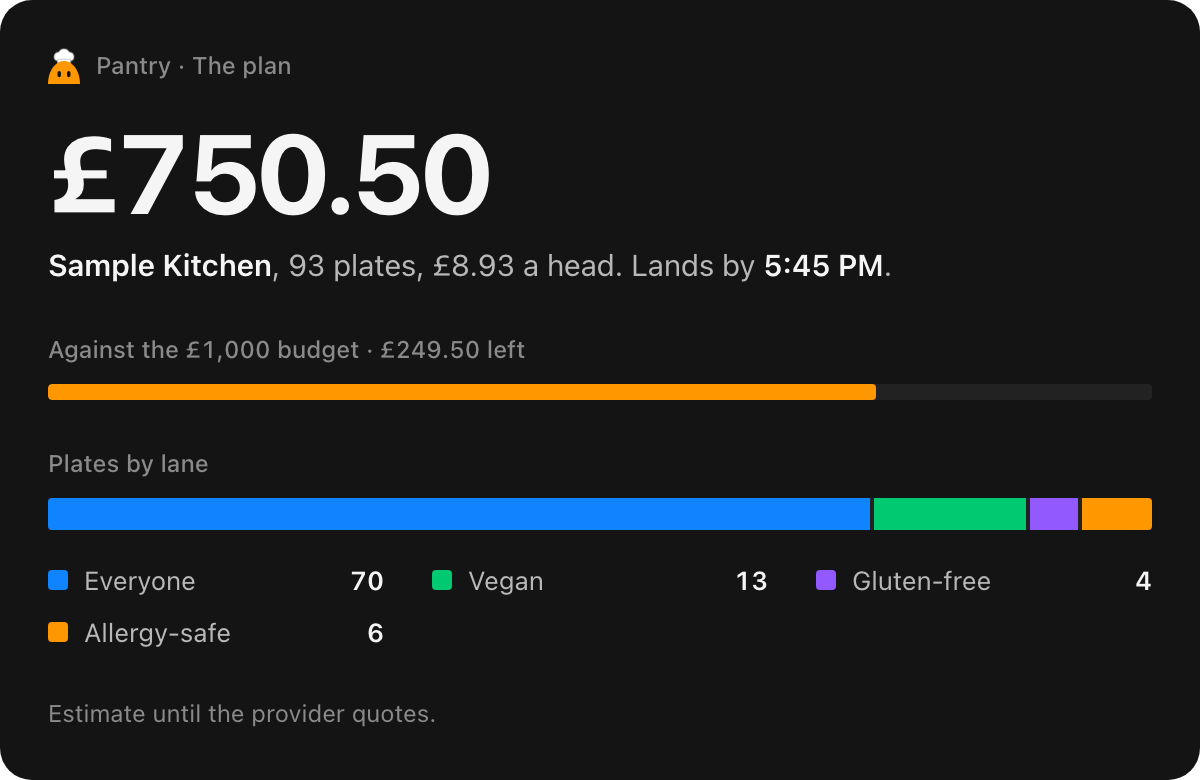
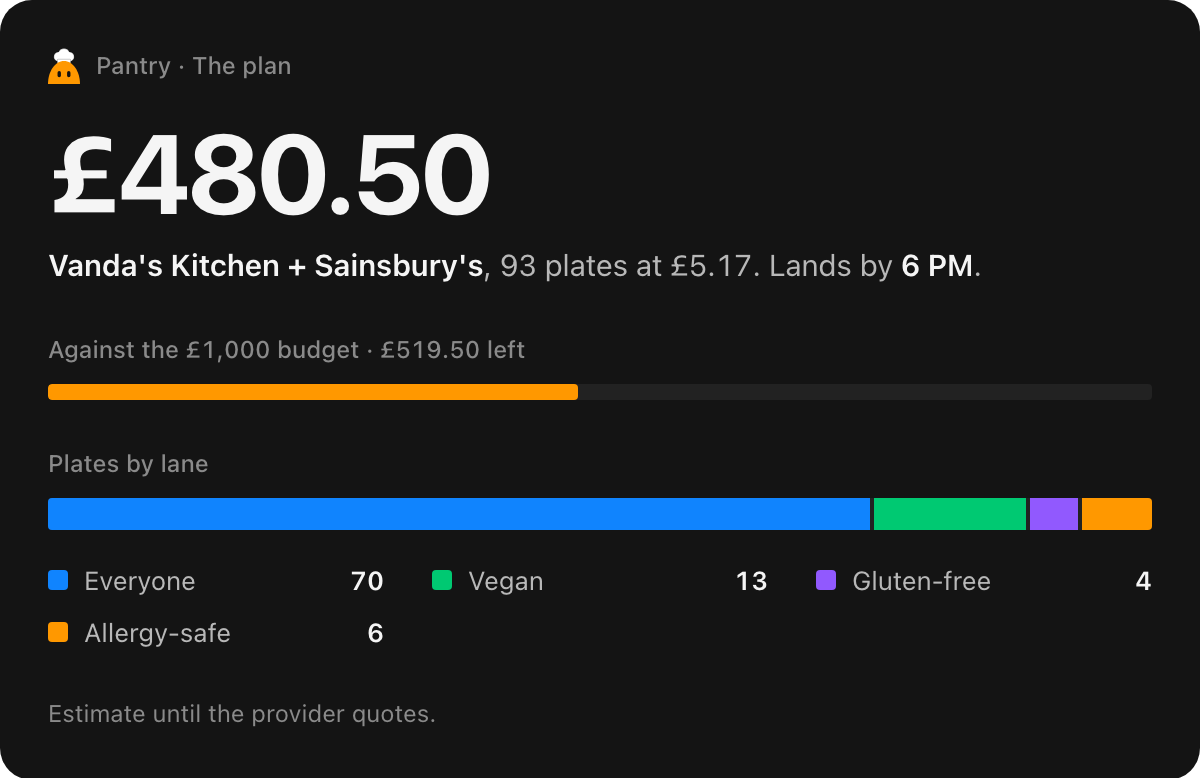
Stage: panels that work full screen, deposit prompt, prompts sent through accessibility
- Connections, How it works and Agentcard get a two-column layout on a 16:9 screen; the half-width
  layout is unchanged. Four current cards in How it works.
- Prompt 4 is the £70 deposit. prompt.sh fills and sends Pantry's message box through bin/grok
  (accessibility): no keystrokes or clicks, and it refuses unless Pantry's chat is open.
- stage.js sizes Grok Bot to whichever screen it's on. ?date= pins the closing credit.

diff --git a/story/streamdeck/src/grok.swift b/story/streamdeck/src/grok.swift
@@ -1,0 +1,125 @@
+// grok: drive Grok Bot through the macOS accessibility API. No keystrokes, no mouse moves, and Grok Bot
+// doesn't have to be in front, so nothing can land in another app by mistake.
+//   grok prompt "<text>"    put the text in Pantry's message box (doesn't send)
+//   grok send               press Send message
+//   grok pantry             open Pantry's chat
+//   grok image [n]          open the nth-from-last card in the chat full screen (1 = the latest)
+//   grok close              close the full-screen image (or any open dialog)
+//   grok compact on|off     the compact sidebar (on hides the other Bots' names)
+//   grok fill [left|right]  fit the window to the screen it's on, below the menu bar (or its left/right half)
+//   grok at x y w h         move and size the window (points, top-left origin)
+//   grok state              JSON: frontmost app, chat, composer text, send button, window frame
+// Needs Accessibility for the terminal (or app) that runs it.
+import AppKit
+import ApplicationServices
+
+func attr(_ e: AXUIElement, _ n: String) -> AnyObject? { var v: AnyObject?; return AXUIElementCopyAttributeValue(e, n as CFString, &v) == .success ? v : nil }
+func str(_ e: AXUIElement, _ n: String) -> String { (attr(e, n) as? String) ?? "" }
+func frame(_ e: AXUIElement) -> CGRect {
+  var p = CGPoint.zero, s = CGSize.zero
+  if let v = attr(e, kAXPositionAttribute) { AXValueGetValue(v as! AXValue, .cgPoint, &p) }
+  if let v = attr(e, kAXSizeAttribute) { AXValueGetValue(v as! AXValue, .cgSize, &s) }
+  return CGRect(origin: p, size: s)
+}
+func label(_ e: AXUIElement) -> String { let d = str(e, kAXDescriptionAttribute); return d.isEmpty ? str(e, kAXTitleAttribute) : d }
+func die(_ m: String) -> Never { FileHandle.standardError.write((m + "\n").data(using: .utf8)!); exit(1) }
+
+guard let app = NSRunningApplication.runningApplications(withBundleIdentifier: "com.anysphere.sand").first else { die("Grok Bot isn't running.") }
+let ax = AXUIElementCreateApplication(app.processIdentifier)
+AXUIElementSetAttributeValue(ax, "AXManualAccessibility" as CFString, kCFBooleanTrue)
+
+func elements() -> [AXUIElement] {
+  var out: [AXUIElement] = []
+  func walk(_ e: AXUIElement, _ d: Int) {
+    if d > 64 || out.count > 30000 { return }
+    out.append(e)
+    if let kids = attr(e, kAXChildrenAttribute) as? [AXUIElement] { for k in kids { walk(k, d + 1) } }
+  }
+  for w in (attr(ax, kAXWindowsAttribute) as? [AXUIElement]) ?? [] { walk(w, 0) }
+  return out
+}
+func find(_ role: String, _ name: String) -> [AXUIElement] { elements().filter { str($0, kAXRoleAttribute) == role && label($0) == name } }
+func press(_ e: AXUIElement) -> Bool { AXUIElementPerformAction(e, kAXPressAction as CFString) == .success }
+func mainWindow() -> AXUIElement? {
+  ((attr(ax, kAXWindowsAttribute) as? [AXUIElement]) ?? []).first { str($0, kAXSubroleAttribute) == "AXStandardWindow" }
+}
+func composer() -> AXUIElement? { elements().first { str($0, kAXRoleAttribute) == "AXTextArea" && label($0) == "Prompt" } }
+// The chat header names the Bot whose conversation is open.
+func chatName() -> String {
+  guard let header = find("AXButton", "View conversation details").first else { return "" }
+  var name = ""
+  func walk(_ e: AXUIElement) { if name.isEmpty, str(e, kAXRoleAttribute) == "AXStaticText" { name = str(e, kAXValueAttribute) }; for k in (attr(e, kAXChildrenAttribute) as? [AXUIElement]) ?? [] { walk(k) } }
+  walk(header)
+  return name
+}
+func setFrame(_ r: CGRect) {
+  guard let w = mainWindow() else { die("No Grok Bot window.") }
+  var p = r.origin, s = r.size
+  AXUIElementSetAttributeValue(w, kAXPositionAttribute as CFString, AXValueCreate(.cgPoint, &p)!)
+  AXUIElementSetAttributeValue(w, kAXSizeAttribute as CFString, AXValueCreate(.cgSize, &s)!)
+}
+// The visible frame (below the menu bar) of the screen the window is on, in top-left coordinates.
+func screenFrame() -> CGRect {
+  let primary = NSScreen.screens[0].frame
+  let wf = mainWindow().map(frame) ?? .zero
+  let screen = NSScreen.screens.first { s in let f = s.frame; let top = CGRect(x: f.minX, y: primary.maxY - f.maxY, width: f.width, height: f.height); return top.contains(CGPoint(x: wf.midX, y: wf.midY)) } ?? NSScreen.main ?? NSScreen.screens[0]
+  let v = screen.visibleFrame
+  return CGRect(x: v.minX, y: primary.maxY - v.maxY, width: v.width, height: v.height)
+}
+func waitFor(_ ok: () -> Bool, _ seconds: Double = 4) -> Bool {
+  let end = Date().addingTimeInterval(seconds)
+  while Date() < end { if ok() { return true }; usleep(120_000) }
+  return ok()
+}
+
+let a = CommandLine.arguments
+switch a.count > 1 ? a[1] : "" {
+case "pantry":
+  if chatName() == "Pantry" { print("Pantry's chat is open"); break }
+  guard let item = find("AXButton", "Pantry").first, press(item) else { die("Couldn't find Pantry in the sidebar.") }
+  print(waitFor({ chatName() == "Pantry" }) ? "Pantry's chat is open" : "opened, but the header says \(chatName())")
+case "prompt":
+  guard a.count > 2 else { die("usage: grok prompt \"<text>\"") }
+  if chatName() != "Pantry" { die("The open chat is \(chatName().isEmpty ? "unknown" : chatName()), not Pantry. Run: grok pantry") }
+  guard let field = composer() else { die("No message box.") }
+  AXUIElementSetAttributeValue(field, kAXValueAttribute as CFString, a[2] as CFString)
+  print(waitFor({ !find("AXButton", "Send message").isEmpty }, 2) ? "ready to send" : "text set (no Send button yet)")
+case "send":
+  if chatName() != "Pantry" { die("The open chat isn't Pantry's. Nothing sent.") }
+  guard let b = find("AXButton", "Send message").first else { die("Nothing to send: the message box is empty.") }
+  print(press(b) && waitFor({ find("AXButton", "Send message").isEmpty }, 3) ? "sent" : "pressed Send; check Grok Bot")
+case "image":
+  let n = a.count > 2 ? max(1, Int(a[2]) ?? 1) : 1
+  let images = find("AXButton", "Open image full screen")
+  guard images.count >= n else { die("Only \(images.count) images in view.") }
+  print(press(images[images.count - n]) ? "opened image \(n) from the end" : "couldn't open it")
+case "close":
+  let close = elements().filter { str($0, kAXRoleAttribute) == "AXButton" && ["Close", "Close image", "Close viewer", "Close full screen"].contains(label($0)) }
+  guard let c = close.last else { die("Nothing open to close.") }
+  print(press(c) ? "closed" : "couldn't close")
+case "compact":
+  let want = a.count > 2 ? a[2] == "on" : true
+  let isCompact = !elements().contains { str($0, kAXRoleAttribute) == "AXStaticText" && str($0, kAXValueAttribute) == "Voco Community" }
+  if want == isCompact { print("compact sidebar is \(want ? "on" : "off")"); break }
+  guard let t = find("AXButton", "Toggle compact sidebar").first, press(t) else { die("No sidebar toggle.") }
+  print("compact sidebar \(want ? "on" : "off")")
+case "fill":
+  let s = screenFrame()
+  let side = a.count > 2 ? a[2] : "full"
+  let half = (s.width / 2).rounded()
+  setFrame(side == "left" ? CGRect(x: s.minX, y: s.minY, width: half, height: s.height) : side == "right" ? CGRect(x: s.minX + half, y: s.minY, width: s.width - half, height: s.height) : s)
+  print("window", mainWindow().map(frame).map { "\(Int($0.minX)),\(Int($0.minY)) \(Int($0.width))x\(Int($0.height))" } ?? "?")
+case "at":
+  guard a.count > 5, let x = Double(a[2]), let y = Double(a[3]), let w = Double(a[4]), let h = Double(a[5]) else { die("usage: grok at x y w h") }
+  setFrame(CGRect(x: x, y: y, width: w, height: h))
+  print("window", mainWindow().map(frame).map { "\(Int($0.minX)),\(Int($0.minY)) \(Int($0.width))x\(Int($0.height))" } ?? "?")
+case "state":
+  let f = mainWindow().map(frame) ?? .zero
+  let text = composer().map { str($0, kAXValueAttribute).trimmingCharacters(in: .whitespacesAndNewlines) } ?? ""
+  let obj: [String: Any] = ["front": NSWorkspace.shared.frontmostApplication?.localizedName ?? "", "chat": chatName(), "composer": text,
+    "canSend": !find("AXButton", "Send message").isEmpty, "images": find("AXButton", "Open image full screen").count,
+    "window": [Int(f.minX), Int(f.minY), Int(f.width), Int(f.height)]]
+  print(String(data: try! JSONSerialization.data(withJSONObject: obj, options: [.sortedKeys]), encoding: .utf8)!)
+default:
+  print("usage: grok pantry | prompt \"<text>\" | send | image [n] | close | compact on|off | fill [left|right] | at x y w h | state")
+}

diff --git a/story/index.html b/story/index.html
@@ -254,6 +254,7 @@ body.panel-on { cursor: default; }
 #p-tools .cards { position: absolute; left: 7%; right: 7%; top: 53%; }
 #p-tools .cards .row { display: grid; grid-template-columns: 1fr 1fr 1fr; gap: 3%; align-items: start; margin-top: .7em; }
 #p-tools .cards img { width: 100%; border-radius: 10px; box-shadow: 0 0 0 1px rgba(255,255,255,.12), 0 18px 40px -10px rgba(0,0,0,.8); }
+#p-tools .cards .row img:nth-child(n+4) { display: none; }
 #p-tools .cards .cap { font-size: 1.15em; color: var(--ink-2); }
 #p-tools .cards .cap b { color: var(--ink); font-weight: 560; }
 #p-tools .rules { position: absolute; left: 7%; right: 7%; bottom: 8%; display: grid; grid-template-columns: 1fr 1fr; gap: .7em 1.4em; }
@@ -273,6 +274,32 @@ body.panel-on { cursor: default; }
 #p-agentcard .never .big { font-size: 2em; line-height: 1.15; font-weight: 600; letter-spacing: -.025em; }
 #p-agentcard .never .sm { margin-top: .6em; font-size: 1.2em; color: var(--ink-2); line-height: 1.35; }
 #p-agentcard .tag { position: absolute; right: 7%; top: 6%; font-family: var(--mono); font-size: 1em; color: #000; background: var(--yellow); padding: .35em .7em; border-radius: 6px; }
+
+/* The same panels full screen (a 16:9 projector): two columns, the words left, the picture right. */
+@media (min-aspect-ratio: 5/4) {
+  .panel { font-size: min(1.75vh, 1.1vw); }
+  .panel .pglow { background: radial-gradient(60% 50% at 70% 110%, rgba(255,152,0,.20), rgba(0,0,0,0) 70%); }
+  .panel .phead { left: 6%; right: auto; width: 34%; top: 50%; transform: translateY(-50%); }
+  .panel .phead.rise { animation-name: riseMid; }
+  @keyframes riseMid { from { opacity: 0; transform: translateY(calc(-50% + 16px)); filter: blur(6px); } to { opacity: 1; transform: translateY(-50%); filter: none; } }
+  .panel .phead h1 { font-size: 4.4em; }
+  #p-connect .sky { left: 38%; right: 3%; top: 4%; bottom: 4%; }
+  #p-connect .hub { width: 17%; }
+  #p-connect .node { width: 24%; }
+  #p-tools .phead { top: 9%; transform: none; }
+  #p-tools .phead.rise { animation-name: rise; }
+  #p-tools .groups { left: 6%; right: auto; width: 38%; top: 34%; }
+  #p-tools .rules { left: 6%; right: auto; width: 38%; bottom: 9%; }
+  #p-tools .cards { left: 48%; right: 5%; top: 9%; }
+  #p-tools .cards .cap { font-size: 1.3em; }
+  #p-tools .cards .row { grid-template-columns: 1fr 1fr; gap: 1.2em 1.2em; margin-top: 1em; }
+  #p-tools .cards .row img:nth-child(n+4) { display: block; }
+  #p-agentcard .phead { top: 36%; }
+  #p-agentcard .never { left: 6%; right: auto; width: 36%; bottom: auto; top: 52%; }
+  #p-agentcard .steps { left: 50%; right: 6%; top: 50%; transform: translateY(-50%); }
+  #p-agentcard .step { padding-bottom: 2.1em; }
+  #p-agentcard .step::before { top: 3.4em; }
+}
 @media (prefers-reduced-motion: reduce) { *, *::before, *::after { animation-duration: .01ms !important; animation-iteration-count: 1 !important; transition-duration: .01ms !important; } }
 </style>
 </head>
@@ -482,17 +509,17 @@ Demo budget: 1:45. Come back with &quot;3&quot; for the close.">
     <div class="grp rise" style="animation-delay:.56s"><div class="label">04</div><div class="t">Remember</div><div class="chips"><i>cognee recall</i><i>cognee remember</i><i>debrief</i></div></div>
   </div>
   <div class="cards rise" style="animation-delay:.75s"><div class="cap"><b>Cards, not walls of text.</b> One idea per card, the number first, sent as an image.</div>
-    <div class="row"><img src="assets/cards/plan.png" alt="Plan card"><img src="assets/cards/provider-1.png" alt="Provider card"><img src="assets/cards/payment-paid.png" alt="Payment card"></div></div>
+    <div class="row"><img src="assets/cards/plan.png" alt="Plan card: the total, the budget and plates by lane"><img src="assets/cards/meal.png" alt="Meal card: who a meal feeds"><img src="assets/cards/payment.png" alt="Payment card: a deposit paid on a single-use card"><img src="assets/cards/headcount.png" alt="Headcount card: plan for 93, not 140"></div></div>
   <div class="rules rise" style="animation-delay:1s"><div>Allergies planned at 100%</div><div>Nothing invented</div><div>Every source linked</div><div>No tool can pay</div></div>
 </section>
 <section class="panel" id="p-agentcard"><div class="pglow"></div>
-  <div class="tag rise">Sandbox tonight</div>
+  <div class="tag rise">Agentcard sandbox</div>
   <div class="phead rise"><div class="label">Agentcard</div><h1>How Pantry pays.</h1></div>
   <div class="steps">
-    <div class="step rise" style="animation-delay:.2s"><div class="num">1</div><div><b>Pantry raises the request</b><span>Bound to the plan, the amount and the provider.</span></div></div>
+    <div class="step rise" style="animation-delay:.2s"><div class="num">1</div><div><b>Pantry raises the request</b><span>Bound to the plan, the amount and the payee.</span></div></div>
     <div class="step you rise" style="animation-delay:.4s"><div class="num">2</div><div><b>You say yes</b><span>Nothing moves without a human.</span></div></div>
     <div class="step rise" style="animation-delay:.6s"><div class="num">3</div><div><b>A single-use card is issued</b><span>For exactly that amount, by Agentcard.</span></div></div>
-    <div class="step rise" style="animation-delay:.8s"><div class="num">4</div><div><b>The charge goes through</b><span>Simulated in sandbox tonight.</span></div></div>
+    <div class="step rise" style="animation-delay:.8s"><div class="num">4</div><div><b>The charge goes through</b><span>Simulated in Agentcard's sandbox.</span></div></div>
     <div class="step rise" style="animation-delay:1s"><div class="num">5</div><div><b>The card closes</b><span>It can't be used again.</span></div></div>
   </div>
   <div class="never rise" style="animation-delay:1.25s"><div class="big">Pantry never sees a card number.<br><span class="y">It can't approve.</span></div><div class="sm">1Password does the same for logins: Pantry signs in to suppliers without ever seeing the password.</div></div>
@@ -528,7 +555,8 @@ Demo budget: 1:45. Come back with &quot;3&quot; for the close.">
   } else tonight.remove();
 
   // ---- Today's date, from the browser clock (en-GB, Europe/London) ----
-  document.getElementById('today').textContent = new Date().toLocaleDateString('en-GB', { day: 'numeric', month: 'long', year: 'numeric', timeZone: 'Europe/London' });
+  const pinned = /^\d{4}-\d{2}-\d{2}$/.test(q.get('date') ?? '') ? new Date(`${q.get('date')}T12:00:00Z`) : new Date();
+  document.getElementById('today').textContent = pinned.toLocaleDateString('en-GB', { day: 'numeric', month: 'long', year: 'numeric', timeZone: 'Europe/London' });
 
   // ---- June: 96 plates in a 12 x 8 grid ----
   const plates = document.getElementById('plates');

diff --git a/story/streamdeck/stage.js b/story/streamdeck/stage.js
@@ -2,8 +2,8 @@
 // Pantry stage server: one deck window, one Grok Bot window, every Stream Deck key a silent GET.
 //   node story/streamdeck/stage.js        then the Stream Deck keys hit http://127.0.0.1:4321/key/<name>
 // The deck page is served from here and listens on /events, so a key press changes it in place: no reload,
-// no new window, no app launch. Windows move with System Events, which needs this process to be started from
-// a terminal that already has Accessibility access.
+// no new window, no app launch. Grok Bot is sized to whichever screen it's on through the accessibility API
+// (bin/grok), which needs this process to be started from a terminal that already has Accessibility access.
 import { createServer } from 'node:http';
 import { readFile } from 'node:fs/promises';
 import { execFile, spawn } from 'node:child_process';
@@ -15,8 +15,6 @@ const DIR = fileURLToPath(new URL('.', import.meta.url));
 const STORY = join(DIR, '..');
 const PANTRY_CHAT = 'grokbot://app/v1/agent?id=5ab715a0-38f1-42bb-b342-f792ecd90270';
 const PROFILE = `${process.env.HOME}/Library/Application Support/PantryStageChrome`;
-const SCREEN = { w: 1710, h: 1112, top: 25 };
-const HALF = Math.round(SCREEN.w / 2);
 
 const clients = new Set();
 let deckPid = null;
@@ -51,13 +49,11 @@ async function deckFront() {
   await osa(`tell application "System Events" to set frontmost of (first process whose unix id is ${deckPid}) to true`);
 }
 
+const GROK = join(DIR, 'bin', 'grok');
 async function grokFull() {
-  await osa(`tell application "Grok Bot" to activate
-  tell application "System Events" to tell process "Grok Bot"
-    set frontmost to true
-    set position of window 1 to {0, ${SCREEN.top}}
-    set size of window 1 to {${SCREEN.w}, ${SCREEN.h - SCREEN.top}}
-  end tell`);
+  await osa('tell application "Grok Bot" to activate');
+  await run(GROK, ['fill']);
+  await run(GROK, ['pantry']);
 }
 
 const KEYS = {
